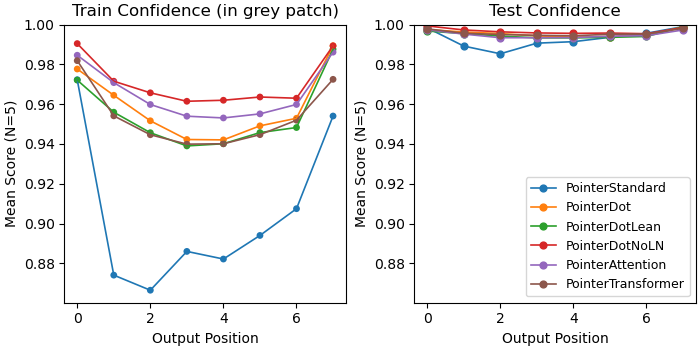
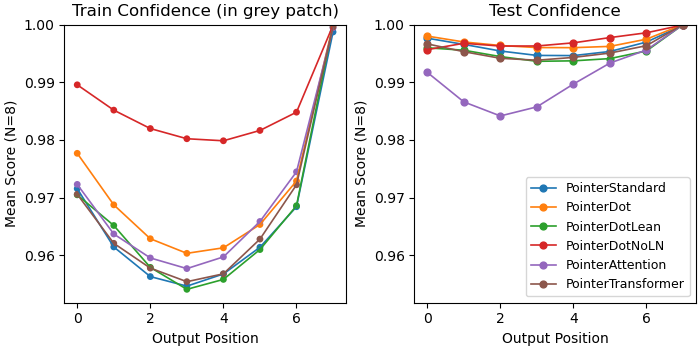
ArchComp Toy Problem Plot updates

diff --git a/experiments/pointerSequencer.py b/experiments/pointerSequencer.py
@@ -74,9 +74,9 @@ def handleArguments():
 
     return args
 
-def get_gamma_transform(gamma, N, B):
+def get_gamma_transform(gamma, N):
     exponent = torch.arange(N).view(-1,1) - torch.arange(N).view(1,-1)
-    gamma_transform = (gamma ** exponent * (exponent >= 0)).unsqueeze(0).expand(B, -1, -1)
+    gamma_transform = (gamma ** exponent * (exponent >= 0))
     return gamma_transform
     
 def trainTestModel():
@@ -102,10 +102,11 @@ def trainTestModel():
     use_rl = args.use_rl
     return_target = not(use_rl) # if not using RL, then using supervised learning and we need the target
     thompson = copy(use_rl) # only do thompson sampling if in reinforcement learning
+    value_method = '2'
 
     if use_rl:
         gamma = args.gamma
-        gamma_transform = get_gamma_transform(gamma, num_output, batchSize).to(device)
+        gamma_transform = get_gamma_transform(gamma, num_output).to(device)
         
     trainEpochs = args.train_epochs
     testEpochs = args.test_epochs
@@ -151,8 +152,8 @@ def trainTestModel():
         # measure loss and do backward pass
         if use_rl:
             # measure rewards for each sequence
-            rewards = training.measureReward_sequencer(available, listDominoes[selection], out_choices, value_method='3', normalize=False)
-            G = torch.bmm(rewards.unsqueeze(1), gamma_transform).squeeze(1)
+            rewards = training.measureReward_sequencer(available, listDominoes[selection], out_choices, value_method=value_method, normalize=False)
+            G = torch.matmul(rewards, gamma_transform)
             logprob_policy = torch.gather(out_scores, 2, out_choices.unsqueeze(2)).squeeze(2) # log-probability for each chosen dominoe
             
             # do backward pass on J
@@ -203,8 +204,8 @@ def trainTestModel():
             # measure loss and do backward pass
             if use_rl:
                 # measure rewards for each sequence
-                rewards = training.measureReward_sequencer(available, listDominoes[selection], out_choices, value_method='3', normalize=False)
-                G = torch.bmm(rewards.unsqueeze(1), gamma_transform).squeeze(1)
+                rewards = training.measureReward_sequencer(available, listDominoes[selection], out_choices, value_method=value_method, normalize=False)
+                G = torch.matmul(rewards, gamma_transform)
                 c_test_value = torch.mean(torch.sum(G, dim=1))
             else:
                 unrolled = out_scores.view(batchSize * num_output, -1)
